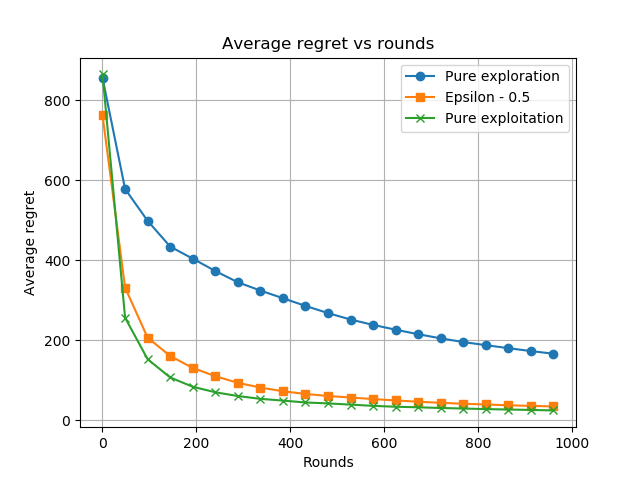
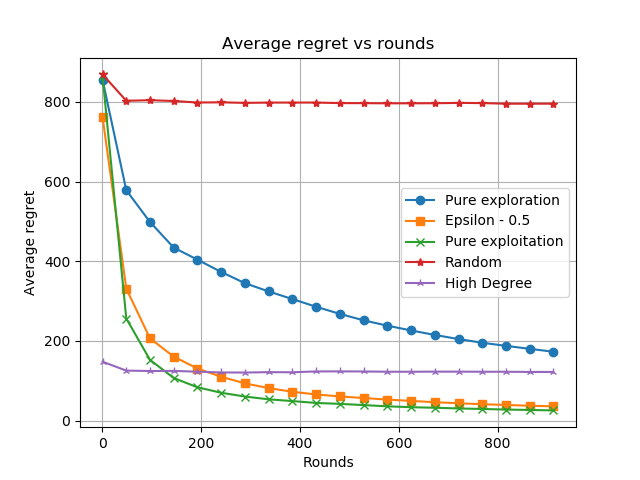
tic curves added

Changed region(s): [[0.0625, 0.25, 0.9375, 0.9375], [0.0625, 0.125, 0.9062, 0.2812], [0.875, 0.5938, 0.9062, 0.625]]

diff --git a/Results/plot_graph.py b/Results/plot_graph.py
@@ -1,14 +1,10 @@
 import matplotlib.pyplot as plt
 
-randoml1 = []
 randomregret = []
-highdegl1 = []
 highdegregret = []
 
 def read_baselines():
-	global randoml1
 	global randomregret
-	global highdegl1
 	global highdegregret
 	file1='nethept_highdegree_50seeds_1000iter'
 	file2='nethept_random_50seeds_1000iter'
@@ -16,9 +12,6 @@ def read_baselines():
 	strdata2 = open(file2, 'rb').read().split('\n')
 	size = len(strdata1)
 
-	l11 = []
-	l12 = []
-	idl1 = 0
 	regret1 = [] 
 	regret2 = []
 	idregret = 1
@@ -26,28 +19,20 @@ def read_baselines():
 	for i,datum in enumerate(strdata1):
 		if (i%2==0) and (i%3==0) and (i%4==0) and (i%6==0) and (i%8==0) and (i%12==0) and (i%16==0):
 			try:
-				l11.append(float(strdata1[i].split(',')[idl1]))
-				l12.append(float(strdata2[i].split(',')[idl1]))
 				regret1.append(float(strdata1[i].split(',')[idregret]))
 				regret2.append(float(strdata2[i].split(',')[idregret]))
 			except:
 				print 'could not parse this -> ' + strdata1[i] + strdata2[i]
 
-	print len(l11)
-	print len(l12)
 	print len(regret1)
 	print len(regret2)
-	randoml1 = l12
-	randomregret = regret2
-	highdegl1 = l11
 	highdegregret = regret1
+	randomregret = regret2
 
 
 
 def plot_curves2(file1,file2,file3,name):
-	global randoml1
 	global randomregret
-	global highdegl1
 	global highdegregret
 	strdata1 = open(file1, 'rb').read().split('\n')
 	strdata2 = open(file2, 'rb').read().split('\n')
@@ -86,18 +71,14 @@ def plot_curves2(file1,file2,file3,name):
 	print iterations
 	print l11
 
-	randoml1 = randoml1[0:len(iterations)]
-	highdegl1 = highdegl1[0:len(iterations)]
 	randomregret = randomregret[0:len(iterations)]
 	highdegregret = highdegregret[0:len(iterations)]
 
 	plt.plot(iterations,l11,'o-')
 	plt.plot(iterations,l12,'s-')
 	plt.plot(iterations,l13,'x-')
-	plt.plot(iterations,randoml1,'*-')
-	plt.plot(iterations,highdegl1,'2-')
 	plt.grid(True)
-	plt.legend(['Pure exploration','Epsilon - 0.5','Pure exploitation','Random', 'High Degree'])
+	plt.legend(['Pure exploration','Epsilon - 0.5','Pure exploitation'])
 	plt.xlabel('Rounds')
 	plt.ylabel('Relative error')
 	plt.title('Relative error vs rounds')
@@ -120,9 +101,7 @@ def plot_curves2(file1,file2,file3,name):
 
 
 def plot_curves(file1,file2,file3,name):
-	global randoml1
 	global randomregret
-	global highdegl1
 	global highdegregret
 	strdata1 = open(file1, 'rb').read().split('\n')
 	strdata2 = open(file2, 'rb').read().split('\n')
@@ -157,19 +136,22 @@ def plot_curves(file1,file2,file3,name):
 	print len(regret1)
 	print len(regret2)
 	print len(regret3)
-	randoml1 = randoml1[0:len(iterations)]
-	highdegl1 = highdegl1[0:len(iterations)]
 	randomregret = randomregret[0:len(iterations)]
 	highdegregret = highdegregret[0:len(iterations)]
+	iterations = iterations[0:len(randomregret)]
+	l11 = l11[0:len(randomregret)]
+	l12 = l12[0:len(randomregret)]
+	l13 = l13[0:len(randomregret)]
+	regret1 = regret1[0:len(randomregret)]
+	regret2 = regret2[0:len(randomregret)]
+	regret3 = regret3[0:len(randomregret)]
 
 
 	plt.plot(iterations,l11,'o-')
 	plt.plot(iterations,l12,'s-')
 	plt.plot(iterations,l13,'x-')
-	plt.plot(iterations,randoml1,'*-')
-	plt.plot(iterations,highdegl1,'2-')
 	plt.grid(True)
-	plt.legend(['Pure exploration','Epsilon - 0.5','Pure exploitation','Random', 'High Degree'])
+	plt.legend(['Pure exploration','Epsilon - 0.5','Pure exploitation'])
 	plt.xlabel('Rounds')
 	plt.ylabel('Relative error')
 	plt.title('Relative error vs rounds')
@@ -190,11 +172,105 @@ def plot_curves(file1,file2,file3,name):
 	plt.savefig(name + '_regret.png')
 	plt.show()
 
+def plot_curves_tic(file1,file2,file3,name):
+	global randomregret
+	global highdegregret
+	strdata1 = open(file1, 'rb').read().split('\n')
+	strdata2 = open(file2, 'rb').read().split('\n')
+	strdata3 = open(file3, 'rb').read().split('\n')
+	size = len(strdata1)
+
+	l11 = []
+	l12 = []
+	l13 = []
+	idl1 = 0
+	rell11 = []
+	rell12 = []
+	rell13 = []
+	idrell1 = 1
+	regret1 = [] 
+	regret2 = []
+	regret3 = []
+	idregret = 2
+	iterations = []
+	for i,datum in enumerate(strdata1):
+		if (i%2==0) and (i%3==0) and (i%4==0) and (i%6==0) and (i%8==0) and (i%12==0) and (i%16==0):
+			try:
+				l11.append(float(strdata1[i].split(',')[idl1]))
+				l12.append(float(strdata2[i].split(',')[idl1]))
+				l13.append(float(strdata3[i].split(',')[idl1]))
+				rell11.append(float(strdata1[i].split(',')[idrell1]))
+				rell12.append(float(strdata2[i].split(',')[idrell1]))
+				rell13.append(float(strdata3[i].split(',')[idrell1]))
+				regret1.append(float(strdata1[i].split(',')[idregret]))
+				regret2.append(float(strdata2[i].split(',')[idregret]))
+				regret3.append(float(strdata3[i].split(',')[idregret]))
+				iterations.append(i+1)
+			except:
+				print 'could not parse this -> ' + strdata1[i] + strdata2[i] + strdata3[i] 
+
+	print len(l11)
+	print len(l12)
+	print len(l13)
+	print len(rell11)
+	print len(rell12)
+	print len(rell13)
+	print len(regret1)
+	print len(regret2)
+	print len(regret3)
+	randomregret = randomregret[0:len(iterations)]
+	highdegregret = highdegregret[0:len(iterations)]
+	iterations = iterations[0:len(randomregret)]
+	l11 = l11[0:len(randomregret)]
+	l12 = l12[0:len(randomregret)]
+	l13 = l13[0:len(randomregret)]
+	rell11 = rell11[0:len(randomregret)]
+	rell12 = rell12[0:len(randomregret)]
+	rell13 = rell13[0:len(randomregret)]
+	regret1 = regret1[0:len(randomregret)]
+	regret2 = regret2[0:len(randomregret)]
+	regret3 = regret3[0:len(randomregret)]
+
+
+	plt.plot(iterations,l11,'o-')
+	plt.plot(iterations,l12,'s-')
+	plt.plot(iterations,l13,'x-')
+	plt.grid(True)
+	plt.legend(['Pure exploration','Epsilon - 0.5','Pure exploitation'])
+	plt.xlabel('Rounds')
+	plt.ylabel('Relative error')
+	plt.title('Relative error vs rounds')
+	plt.savefig(name + '_l1.png')
+	plt.show()
+
+	plt.plot(iterations,rell11,'o-')
+	plt.plot(iterations,rell12,'s-')
+	plt.plot(iterations,rell13,'x-')
+	plt.grid(True)
+	plt.legend(['Pure exploration','Epsilon - 0.5','Pure exploitation'])
+	plt.xlabel('Rounds')
+	plt.ylabel('Relative error (dot)')
+	plt.title('Relative error (dot) vs rounds')
+	plt.savefig(name + '_l1_dot.png')
+	plt.show()
+
+	plt.figure()
+	plt.plot(iterations,regret1,'o-')
+	plt.plot(iterations,regret2,'s-')
+	plt.plot(iterations,regret3,'x-')
+	plt.plot(iterations,randomregret,'*-')
+	plt.plot(iterations,highdegregret,'2-')
+	plt.grid(True)
+	plt.legend(['Pure exploration','Epsilon - 0.5','Pure exploitation','Random', 'High Degree'])
+	plt.xlabel('Rounds')
+	plt.ylabel('Average regret')
+	plt.title('Average regret vs rounds')
+	plt.savefig(name + '_regret.png')
+	plt.show()
+
 
 read_baselines()
-print len(randoml1)
 print len(randomregret)
-print len(highdegl1)
 print len(highdegregret)
 
 
@@ -202,25 +278,68 @@ print len(highdegregret)
 file1 = 'log_synth_edge_0.txt'
 file2 = 'log_synth_edge_0.5.txt'
 file3 = 'log_synth_edge_1.txt'
-#plot_curves(file1,file2,file3,'synth_edge')
+plot_curves(file1,file2,file3,'synth_edge')
 
 # Node level synth
 file1 = 'log_0.000000synth_5000_l.txt'
 file2 = 'log_0.500000synth_5000_l.txt'
 file3 = 'log_1.000000synth_5000_l.txt'
-#plot_curves2(file1,file2,file3,'synth_node')
+plot_curves2(file1,file2,file3,'synth_node')
 
 # Node level nethept
 file1 = 'log_1.000000graph_ic.inf' # seems like mohit has named the files wrong
 file2 = 'log_0.500000graph_ic.inf' # so I have swapped his explore and exploit
 file3 = 'log_0.000000graph_ic.inf'
-#plot_curves2(file1,file2,file3,'nethept_node')
+plot_curves2(file1,file2,file3,'nethept_node')
 
 #Edge level nethelp
 file1 = 'nethept_edge_PExplore_50seeds_1000iter'
 file2 = 'nethept_edge_EGreedy_50seeds_1000iter'
 file3 = 'nethept_edge_PExp_50seeds_1000iter'
-#plot_curves(file1,file2,file3,'nethept_edge')
+plot_curves(file1,file2,file3,'nethept_edge')
+
+# TIC CURVES
+
+# Edge level nethelp 10items 10topics
+file1 = 'nethept_tic_edge_Explore_50seeds_1000iter_10items_10topics'
+file2 = 'nethept_tic_edge_EGreedy_50seeds_1000iter_10items_10topics'
+file3 = 'nethept_tic_edge_Exploit_50seeds_1000iter_10items_10topics'
+plot_curves_tic(file1,file2,file3,'tic_nethept_edge_10_10')
+
+
+# Edge level nethelp 10items 5topics
+file1 = 'nethept_tic_edge_Explore_50seeds_1000iter_10items_5topics'
+file3 = 'nethept_tic_edge_EGreedy_50seeds_1000iter_10items_10topics'
+file4 = 'nethept_tic_edge_Exploit_50seeds_1000iter_10items_10topics'
+plot_curves_tic(file1,file2,file3,'tic_nethept_edge_10_5')
+
+# Edge level nethelp 5items 10topics
+file1 = 'nethept_tic_edge_Explore_50seeds_1000iter_5items_10topics'
+file2 = 'nethept_tic_edge_EGreedy_50seeds_1000iter_10items_10topics'
+file3 = 'nethept_tic_edge_Exploit_50seeds_1000iter_10items_10topics'
+plot_curves_tic(file1,file2,file3,'tic_nethept_edge_5_10')
+
+
+# Node level nethelp 10items 10topics
+file1 = 'nethept_tic_node_Explore_50seeds_1000iter_10items_10topics'
+file2 = 'nethept_tic_node_EGreedy_50seeds_1000iter_10items_10topics'
+file3 = 'nethept_tic_node_Exploit_50seeds_1000iter_10items_10topics'
+plot_curves_tic(file1,file2,file3,'tic_nethept_node_10_10')
+
+
+# Node level nethelp 10items 5topics
+file1 = 'nethept_tic_node_Explore_50seeds_1000iter_10items_5topics'
+file2 = 'nethept_tic_node_EGreedy_50seeds_1000iter_10items_10topics'
+file3 = 'nethept_tic_node_Exploit_50seeds_1000iter_10items_10topics'
+plot_curves_tic(file1,file2,file3,'tic_nethept_node_10_5')
+
+# Node level nethelp 5items 10topics
+file1 = 'nethept_tic_node_Explore_50seeds_1000iter_5items_10topics'
+file2 = 'nethept_tic_node_EGreedy_50seeds_1000iter_10items_10topics'
+file3 = 'nethept_tic_node_Exploit_50seeds_1000iter_10items_10topics'
+plot_curves_tic(file1,file2,file3,'tic_nethept_node_5_10')
+
+
 
 
 
